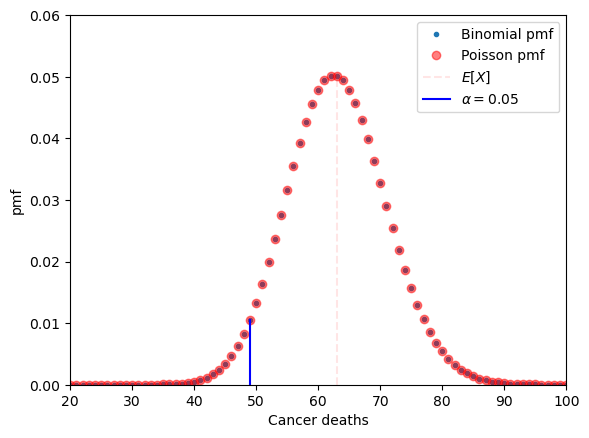
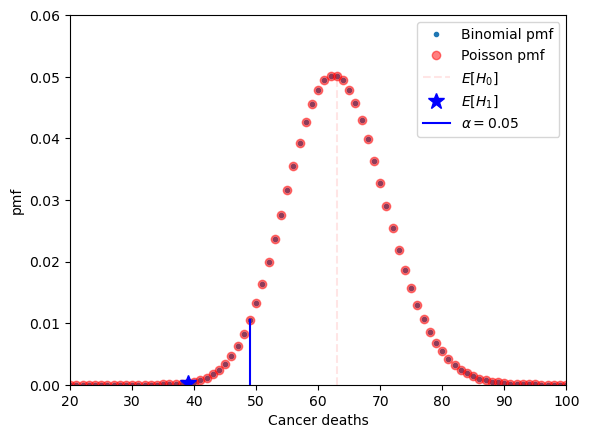
new pic

Changed region(s): [[0.7029, 0.1484, 0.8862, 0.2968], [0.3056, 0.8607, 0.3362, 0.8904]]

diff --git a/observational studies and experiments.md b/observational studies and experiments.md
@@ -55,7 +55,7 @@ We need to perform an **hypothesis test**.
 
 Hypothesis testing steps:
 
-1. Determine a model. In our case Bernoulli (modeling as 1/0 problem) or a Poisson model (modeling as number of events).
+1. Determine a model. In our case Binomial (modeling as the outcome of a number *n* of heads/tails) or a Poisson model (modeling as number of arrivals/events).
 
 2. Determine a mutually exclusive null hypothesis and alternative.
 
@@ -102,7 +102,8 @@ alpha = x[np.where(np.cumsum(pmf_binomial) <= 0.05)][-1] #alpha = 0.05
 
 plt.plot(x,pmf_poisson,'.',label='Binomial pmf')
 plt.plot(x,pmf_poisson,'or',alpha=0.5,label='Poisson pmf')
-plt.plot((63,63),(0,0.05),'r--',alpha=0.1,label='$E[X]$')
+plt.plot((63,63),(0,0.05),'r--',alpha=0.1,label='$E[H_0]$')
+plt.plot(39,pmf_binomial[39],'b*',markersize=12,label='$E[H_1]$')
 plt.plot((alpha,alpha),(0,pmf_binomial[alpha]),'b-',label="$\\alpha=0.05$")
 plt.xlabel('Cancer deaths'),plt.ylabel('pmf')
 plt.xlim(20,100),plt.ylim(0,0.06)
@@ -132,13 +133,13 @@ Null hypothesis: $\pi$ control = $\pi$ treatment
 
 Alternative hypothesis: $\pi$ control > $\pi$ treatment
 
-*Key question: Knowing that 102 subjects died and that number of treatments / controls each is 31k what is probability that deaths are so unevenly distributed?*
+***Key question:*** *Knowing that 102 subjects died and that number of treatments / controls each is 31k what is the probability that deaths are so unevenly distributed?*
 
 We can write the test as
 
 $P_{H_0}(T=39) = (31k/39)(31k/63)/(62k/102)$
 
-$p-value$ = 0.011 < 0.05
+$p\- value$ = 0.011 < 0.05
 
 Advantages:
 
@@ -149,15 +150,4 @@ Shortcomings:
 - Assumes knowledge of the margins (i.e., row and column sums)
 - **Alternative is Bernard’s test** (estimates the margins)
 - Both tests are difficult to perform on large tables for computational reasons
-
-
-
-
-
-
-
-
-
-
-
 
